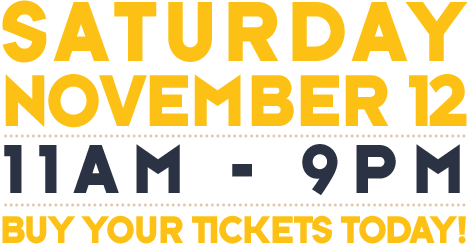
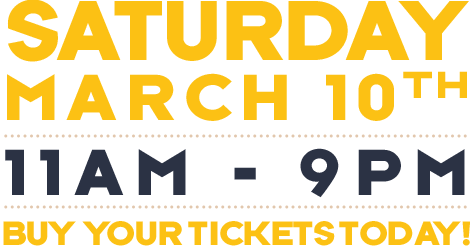
Change event date to March 20, 2012

diff --git a/public/js/functions.js b/public/js/functions.js
@@ -10,9 +10,9 @@ $(document).ready(function (){
 
 	$('#countdown_dashboard1').countDown({
 		targetDate: {
-			'day': 		12,
-			'month': 	11,
-			'year': 	2011,
+			'day': 		10,
+			'month': 	3,
+			'year': 	2012,
 			'hour': 	11,
 			'min': 		0,
 			'sec': 		0
@@ -24,9 +24,9 @@ $(document).ready(function (){
 
 	$('#countdown_dashboard2').countDown({
 		targetDate: {
-			'day': 		12,
-			'month': 	11,
-			'year': 	2011,
+			'day': 		10,
+			'month': 	3,
+			'year': 	2012,
 			'hour': 	11,
 			'min': 		0,
 			'sec': 		0
